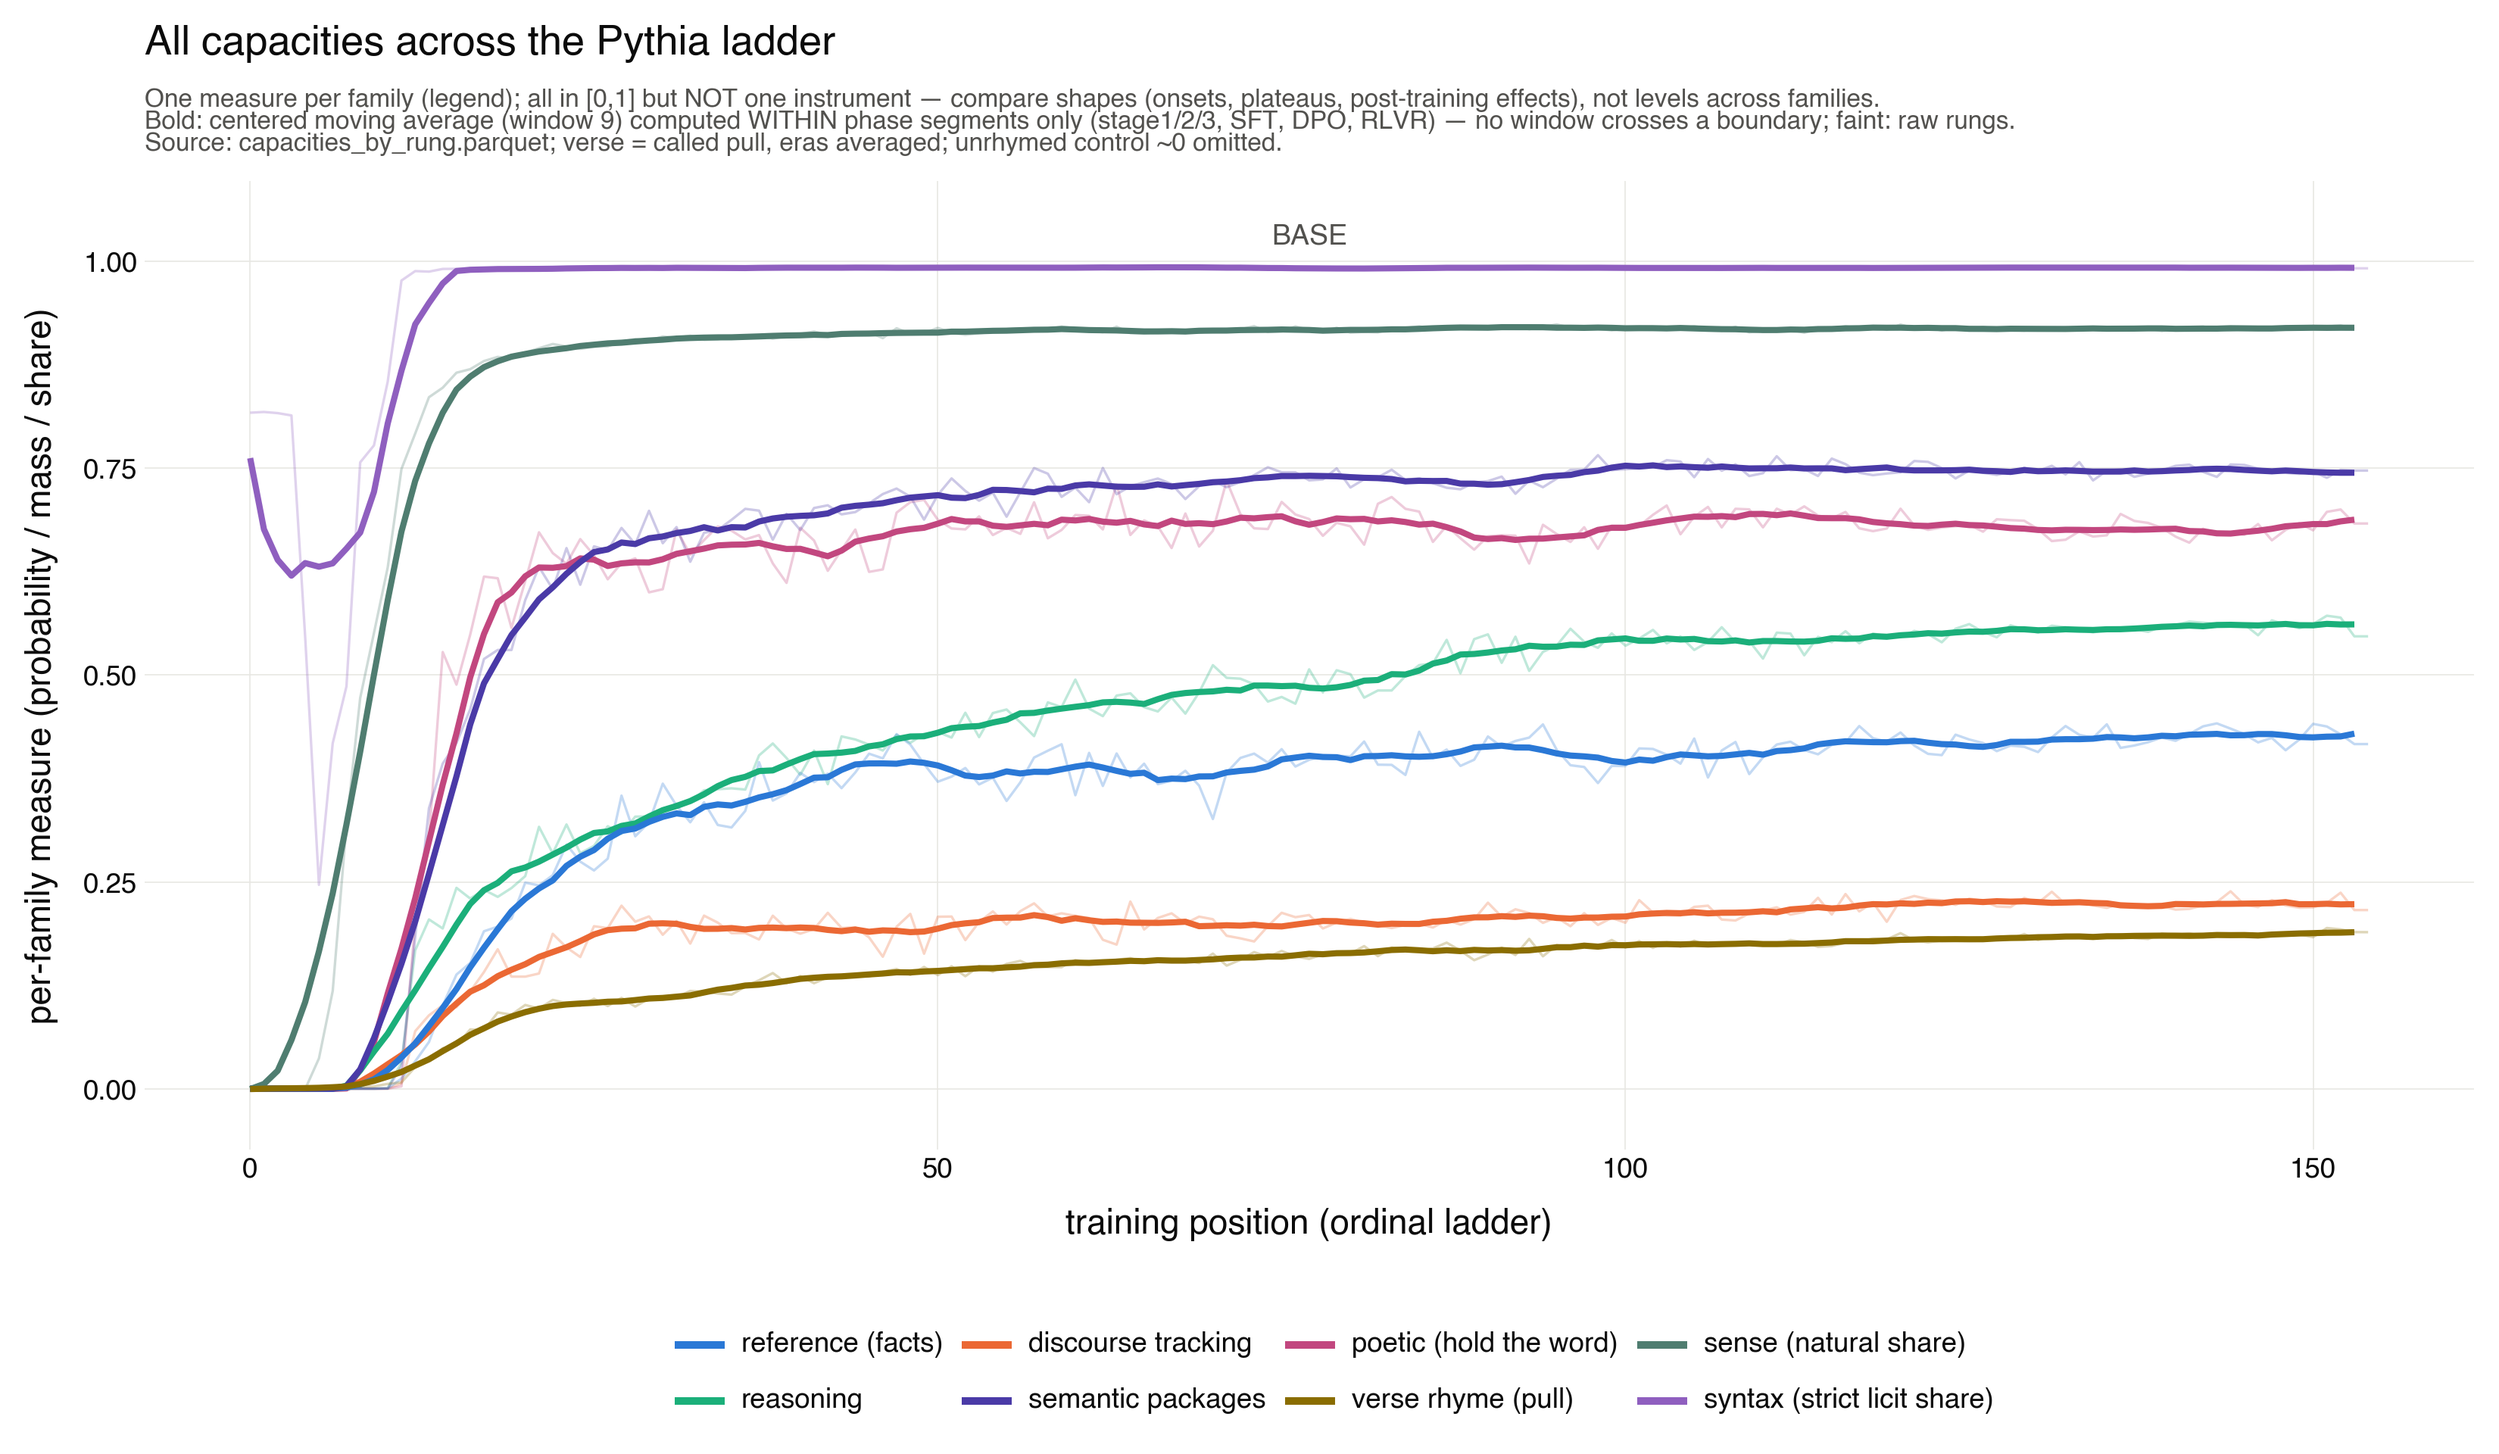
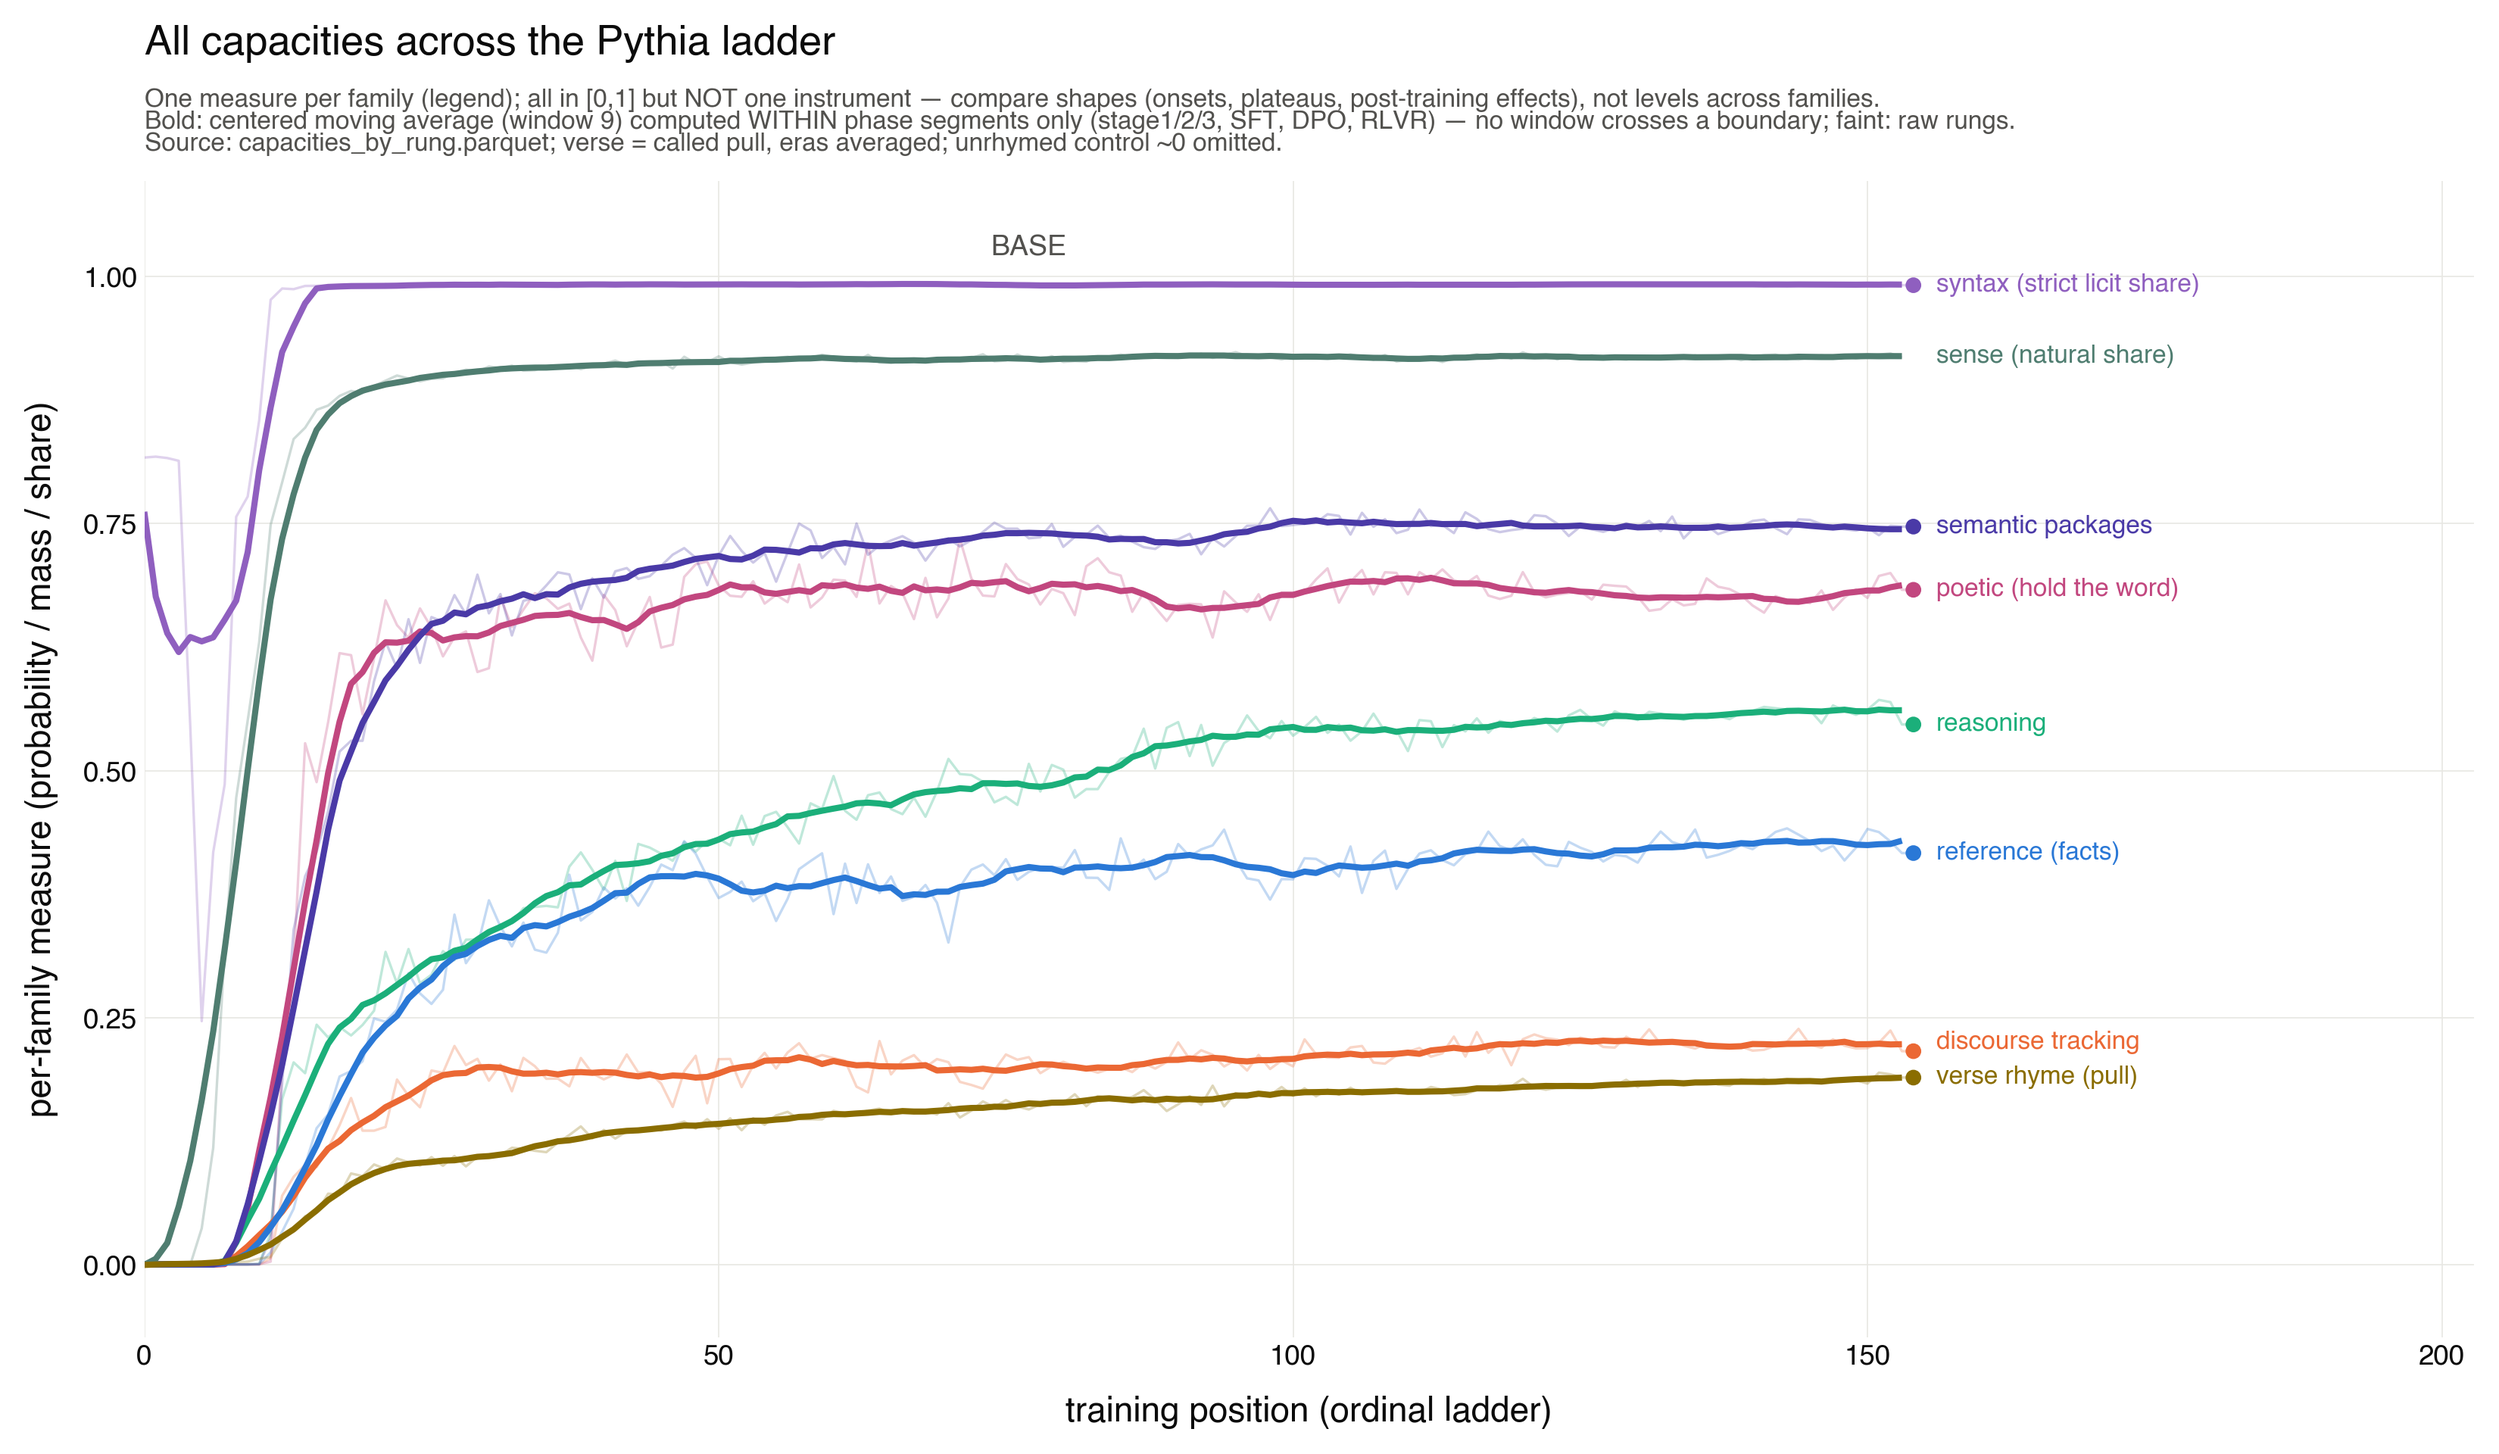
M05: fig26/27 right-edge direct labels + singleton-segment points (DPO visible)
DPO's smoothed value existed (min_periods=1) but a 1-rung segment
cannot render as a line — singleton segments now draw as points.
Right-edge geom_text labels (last smoothed point per family, simple
vertical repel, line color), legend dropped, x expanded 30% for label
space.

diff --git a/meta/M05_emergence/scripts/m05_capacities_overview.py b/meta/M05_emergence/scripts/m05_capacities_overview.py
@@ -137,7 +137,28 @@ def draw(ladder, out):
             p = p + annotate("rect", xmin=lo - 0.5, xmax=hi + 0.5,
                              ymin=-0.02, ymax=top, fill=fill, alpha=0.6)
     w = 9 if ladder == "pythia" else 5
+    # a 1-rung segment (DPO) has a smoothed value (min_periods=1) but
+    # cannot render as a LINE — draw those as points so DPO shows.
+    seg_n = long.groupby("seg_group").seg_group.transform("size")
+    singles = long[seg_n == 1]
+    # right-edge direct labels, one per family, simple vertical repel
+    xmax = int(long.ckpt_idx.max())
+    last = (long.sort_values("ckpt_idx").groupby("fam", as_index=False)
+            .tail(1)[["fam", "smooth"]].sort_values("smooth"))
+    ys, gap = [], top * 0.034
+    for y in last.smooth:
+        ys.append(y if not ys else max(y, ys[-1] + gap))
+    last = last.assign(x=xmax + max(1, int(xmax * 0.015)), ylab=ys)
+    from plotnine import geom_point, geom_text, scale_x_continuous
     p = (p + geom_line(aes(y="smooth", group="seg_group"), size=1.1)
+         + geom_point(data=singles, mapping=aes(y="smooth"), size=1.8,
+                      show_legend=False)
+         + geom_text(data=last,
+                     mapping=aes(x="x", y="ylab", label="fam",
+                                 color="fam"),
+                     ha="left", size=8, fontweight="bold",
+                     show_legend=False)
+         + scale_x_continuous(expand=(0, 0, 0.30, 0))
          + scale_color_manual([COLORS[f] for f in fams], limits=fams)
          + ylim(-0.02, top)
          + labs(x="training position (ordinal ladder)",
@@ -161,7 +182,7 @@ def draw(ladder, out):
                  text=element_text(color=INK),
                  plot_title=element_text(size=13, weight="bold"),
                  plot_subtitle=element_text(size=8, color=INK2),
-                 legend_position="bottom",
+                 legend_position="none",
                  figure_size=(11, 6.4)))
     for sec in bounds:
         lo, hi = bounds[sec]
